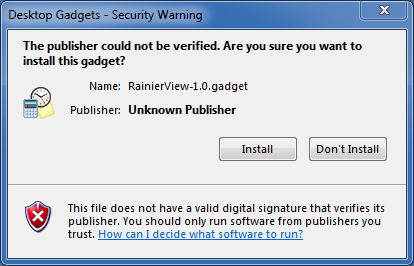
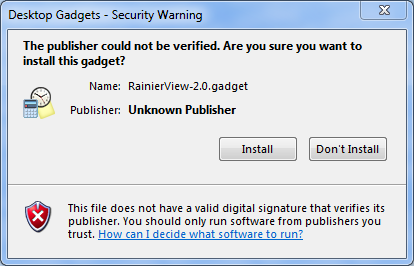
Updated web page instructions.

Changed region(s): [[0.0, 0.0, 1.0, 1.0], [0.4638, 0.3008, 0.4928, 0.3308]]

diff --git a/website/index.html b/website/index.html
@@ -9,18 +9,18 @@
 <h2>&nbsp;A Windows 'gadget' for viewing Mount Rainier</h2>
 
 <p>Welcome to the web page for RainierView, a free Windows 'gadget' for various Mount Rainier webcams.</p>
-<p>Free as in 'free speech', <u>and</u> as in 'free lunch'. Written and distributed in tribute to my favorite
-climbing club, <a href="http://www.osat.org" target="_blank">OSAT</a> - which is not connected with or responsible for this software in any way.</p>
+<p>Free as in 'free speech', <u>and</u> as in 'free lunch'. Written and distributed in tribute to my favorite climbing club, 
+<a href="http://www.osat.org" target="_blank">OSAT</a> - which is not connected with or responsible for this software in any way.</p>
 
 <h3>Installing</h3>
 <p class="indentedPara">You can <a href="RainierView-2.0.gadget">download the Gadget file here</a>; 
-depending on what web browswer you're using you may be able to either "Open" it directly (that is, install it)
-or "Save" it to your hard drive. If you save it, you will then have to go find the "RainierView-2.0.gadget"
-that was downloaded, and double-click it. Either way, you will be presented with this scary notice</p>
+depending on what web browswer you're using you may be able to either "Open" it directly (using the default "Windows Desktop Gadgets" option) or click "Save File" it to your hard drive. If you save it, you will then have to go find the "RainierView-2.0.gadget" file that was downloaded, and double-click it. Either way, you will be presented with this scary notice:</p>
 
 <p><img src="WindowsWarning.PNG"/></p>
 
 <p class="indentedPara">I promise you there is nothing nefarious in this software - I wrote it myself - so go ahead and click "Install".</p>
+
+<p class="indentedPara">If you have installed a previous version of this gadget, you may end up with more than one in your Gadgets window (right-click your desktop, select "Gadgets"). If you click the "Show details" button, you can see which one is the latest, and then right-click and "Uninstall" the old one.</p>
 
 
 <h3>Using</h3>
@@ -29,17 +29,16 @@ that was downloaded, and double-click it. Either way, you will be presented with
 
 <p class="wayIndentedPara"><img src="WidgetControlsCloseup.PNG"/></p>
 
-<p class="indentedPara">These are the standard gadget controls that let you (reading from the top down): 1) close the gadget; 2) toggle its size between large and small; 3) change the settings of the gadget (see 'Configuration', below); or 4) drag the gadget around on your screen.</p>
-<p class="indentedPara">You can just leave this thing running on your desktop 24/7 - it doesn't use much computing resources. But if you do want to close the gadget, just click its "X" box and it will be gone. If you later want to see it again, you do not need to re-install the software - just right-click your desktop, select "Gadgets", find RainierView's icon here and double-click it, and it will be restored.</p>
+<p class="indentedPara">These are the standard gadget controls that let you (reading from the top down): 1) close the gadget; 2) toggle its size between large and small; 3) change the options for the gadget (see 'Options', below); or 4) drag the gadget around on your screen.</p>
+<p class="indentedPara">You can just leave this thing running on your desktop 24/7 - it doesn't use much in the way of computing resources. But if you do want to close the gadget, just click its "X" box and it will be gone. If you later want to see it again, you do not need to re-install the software - just right-click your desktop, select "Gadgets", find RainierView's icon here and double-click it, and it will be restored.</p>
 
 
-<h3>Configuration</h3>
-<p class="indentedPara"><i>I haven't finished this part of the documentation yet. Sorry.</i></p>
+<h3>Options</h3>
+<p class="indentedPara">The 'Options' page doesn't do anything useful yet. You can change the update rate for the image, but the default value of "1" is the best for this camera, and making it bigger won't really affect much. In </p>
 
 
 <h3>Source code</h3>
-<p class="indentedPara">If you'd like to see how it works, adapt it to your own use, or just check it out (a little SCC joke, there)
-you can go to my <a href="https://github.com/RobCranfill/RainierView" target="_blank">RainierView project on GitHub</a>.</p>
+<p class="indentedPara">If you'd like to see how it works, adapt it to your own use, or just check it out (a little source code control joke, there) you can go to my <a href="https://github.com/RobCranfill/RainierView" target="_blank">RainierView project on GitHub</a>.</p>
 
 
 <br/>
